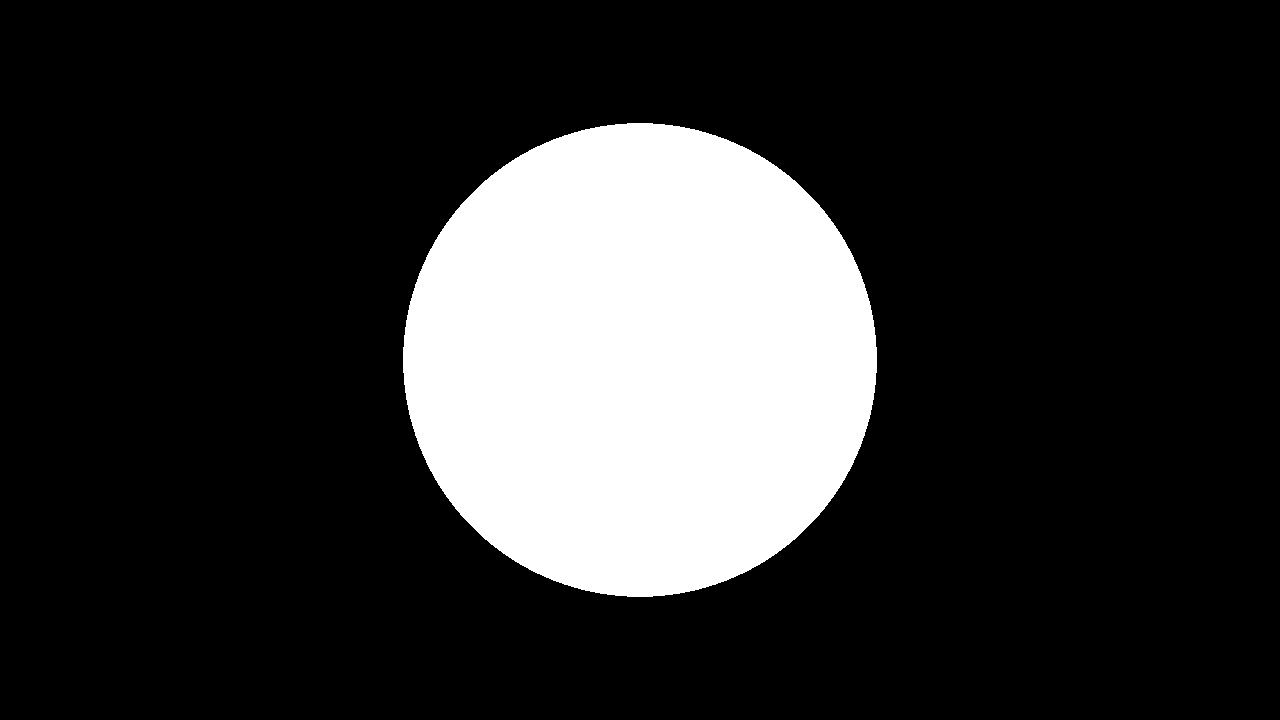
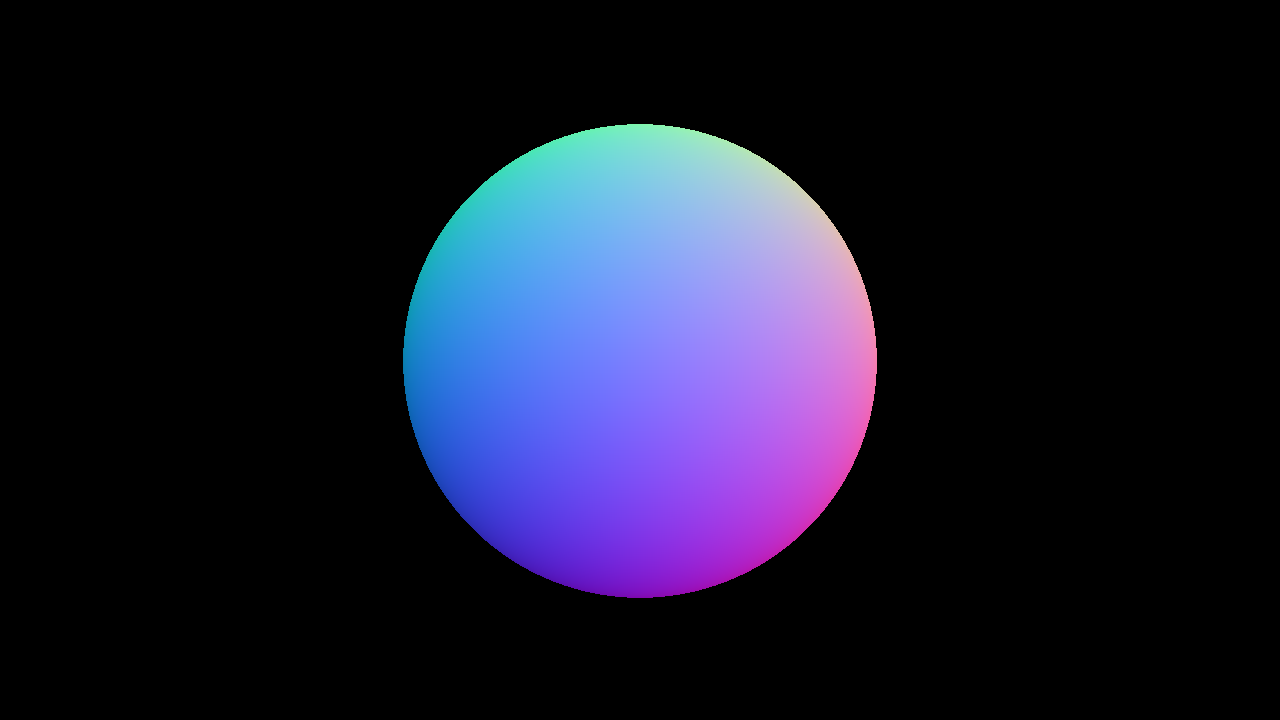
normal sphere

Changed region(s): [[0.3125, 0.1528, 0.6875, 0.8556]]

diff --git a/src/main.rs b/src/main.rs
@@ -1,4 +1,4 @@
-use glam::{IVec2, UVec2, Vec2, Vec3};
+use glam::{UVec2, Vec2, Vec3};
 use image::{Rgb, RgbImage};
 
 struct Sphere {
@@ -18,42 +18,45 @@ struct HitInfo {
 }
 
 fn main() {
+    // let resolution = UVec2::new(3840, 2160);
+    // let resolution = UVec2::new(1920, 1080);
     let resolution = UVec2::new(1280, 720);
+    // let resolution = UVec2::new(100, 100);
+
     let aspec_ratio = resolution.x as f32 / resolution.y as f32;
 
     let sphere = Sphere {
-        position: Vec3::new(0.0, 0.0, 15.0),
+        position: Vec3::new(0.0, 0.0, -15.0),
         radius: 5.0,
     };
-        
-    let camera_position = Vec3::new(0.0, 0.0, -1.0);
+
+    let camera_position = Vec3::new(0.0, 0.0, 1.0);
 
     let mut image = RgbImage::new(resolution.x, resolution.y);
 
     for (x, y, pixel) in image.enumerate_pixels_mut() {
-        let screen_position = UVec2::new(x, y);
+        let screen_position = UVec2::new(x, resolution.y - y);
         let normal_position = (screen_position.as_vec2() + 0.5) / resolution.as_vec2();
         let centerd_position = normal_position - 0.5;
         let aspect_position = centerd_position * Vec2::new(aspec_ratio, 1.0);
-
 
         let ray = Ray {
             position: camera_position,
             direction: aspect_position.extend(0.0) - camera_position,
         };
 
-        let hit = ray_sphere(ray, &sphere).is_some();
-
-        if hit {
-            // println!("hit");
-        }
+        let hit = ray_sphere(ray, &sphere);
 
         let colour = match hit {
-            true => 255u8,
-            false => 0u8,
+            Some(hit_info) => {
+                hit_info.normal * 0.5 + 0.5
+            },
+            None => Vec3::ZERO,
         };
 
-        *pixel = Rgb([colour, colour, colour]);
+
+        let rgb = colour * 255.0;
+        *pixel = Rgb([rgb.x as u8, rgb.y as u8, rgb.z as u8]);
     }
 
     image.save("image.png").unwrap();
